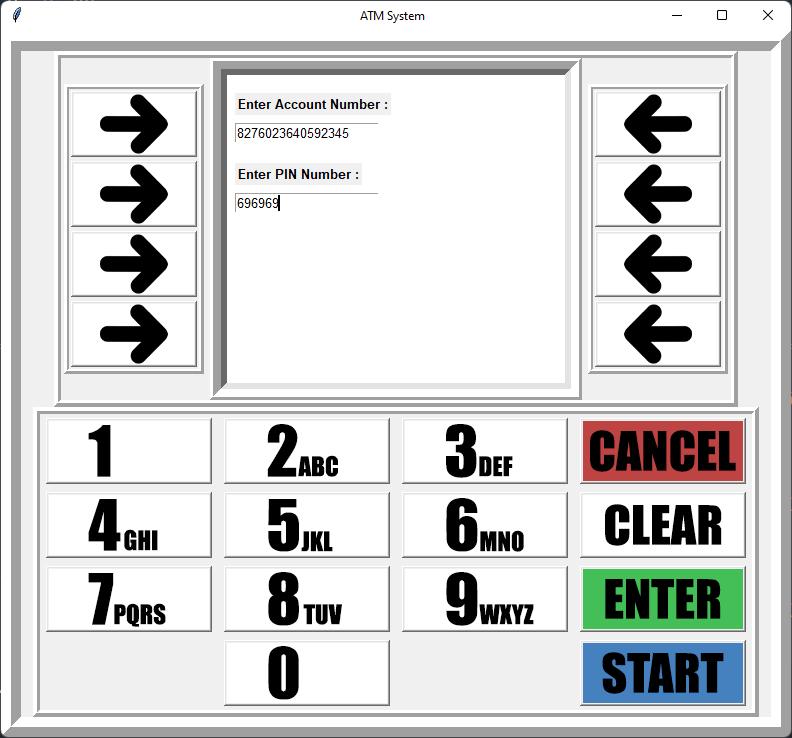
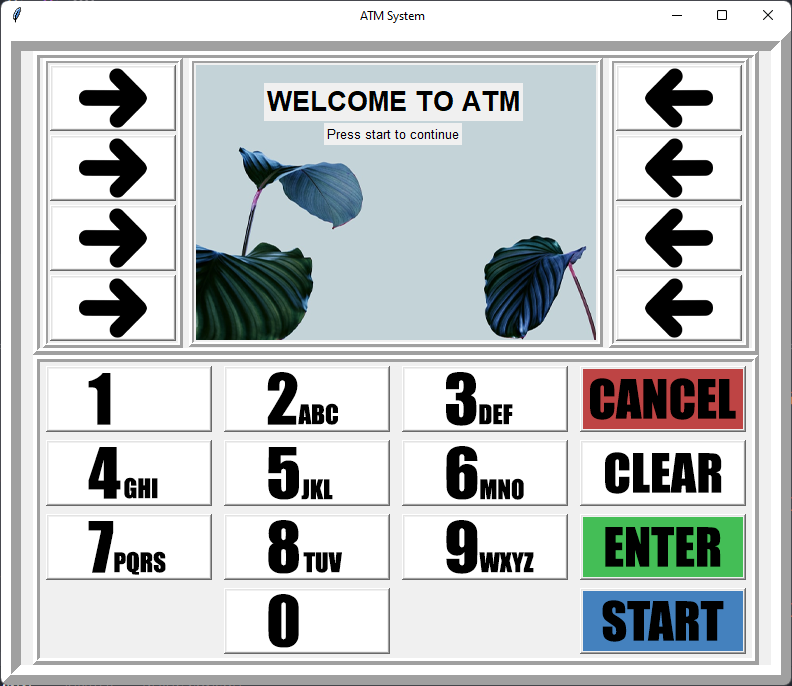
Using labels instead of txtRecipt
Removed txtRecipt
Added Labels instead (like login, register)
Added a function to destroy old widgets when changing to new "screen" which is a variable manually changed when switching screens

diff --git a/GUI.py b/GUI.py
@@ -9,7 +9,7 @@ class atm:
         self.root = root
         blank_space = " "
         self.root.title(110 * blank_space + "ATM System")
-        self.root.geometry('790x706+580+140')
+        self.root.geometry('790x654+580+140')
         self.root.configure(background ='yellow')
 
 #=================================Frame=========================================#
@@ -36,30 +36,48 @@ class atm:
 
 #============================Functions==========================================#
 
+        def DestroyOldWidgets():
+            if(self.screen == "login or register"):
+                self.WelcomeMSG_Main.destroy()
+                self.WelcomeMSG_Sub.destroy()
+            elif(self.screen == "login"):
+                self.login_label.destroy()
+                self.register_label.destroy()
+                self.dummytext1.destroy()
+                self.dummytext2.destroy()
+
         def start():
-            self.txtRecipt.insert(END, '\n\nLogin To Registered account :-' + "\n\n\n\n")
-            self.txtRecipt.insert(END, 'Register A New Account:- ' + "\n\n\n\n")
+            self.screen = "login or register"
+            DestroyOldWidgets()
+
+            self.login_label = Label(TopFrame2Mid, text="Login", font=('arial', 20, 'bold'))
+            self.login_label.place(x=15, y=15)
+
+            self.register_label = Label(TopFrame2Mid, text="Register", font=('arial', 20, 'bold'))
+            self.register_label.place(x=15, y=85)
+
+            self.dummytext1 = Label(TopFrame2Mid, text="Dummy Text 1", font=('arial', 20, 'bold'))
+            self.dummytext1.place(x=15, y=155)
+
+            self.dummytext2 = Label(TopFrame2Mid, text="Dummy Text 2", font=('arial', 20, 'bold'))
+            self.dummytext2.place(x=15, y=225)
 
         def btnltra():
-            cls()
+            # cls()
             submit1()
 
         def btnrana():
-            cls()
-            self.txtRecipt.insert(END, '\nEnter Your Name :')
-            self.txtRecipt.insert(END, '\nEnter Your Account Number:')
-            self.txtRecipt.insert(END, '\nSet Your PIN Number:')
-            self.txtRecipt.insert(END, '\nEnter Your Phone Number:')
-            self.txtRecipt.insert(END, '\nEnter Your Frist Deposit Amount :')
+            # cls()
+            pass
 
         def CurrentEntry():
             widgetSelected = str(root.focus_get()).split('.')[-1][1:]
             # print(widgetSelected)
 
             if(widgetSelected == "entry"):
-                return AccNo_entry
+                return self.AccNo_entry
             if (widgetSelected == "entry2"):
-                return PIN_entry
+                return self.PIN_entry
 
 #============================Numbers============================================#
 
@@ -77,38 +95,38 @@ class atm:
                 self.root.destroy()
                 return
 
-        # Only for txtRecipt
-        def cls():
-            self.txtRecipt.delete("1.0", END)
-
         def submit1():
-            global AccNo_entry
-            global PIN_entry
+            self.screen = "login"
+            DestroyOldWidgets()
 
-            AccNo_var = IntVar()
-            PIN_var = IntVar()
+            self.AccNo_label = Label(TopFrame2Mid, text='Enter Account Number :', font=('arial', 10, 'bold'))
+            self.AccNo_entry = Entry(TopFrame2Mid, font=('arial', 10, 'normal'))
+            self.PIN_label = Label(TopFrame2Mid, text='Enter PIN Number :', font=('arial', 10, 'bold'))
+            self.PIN_entry = Entry(TopFrame2Mid, font=('arial', 10, 'normal'))
 
-            AccNo = AccNo_var.get()
-            PIN = PIN_var.get()
+            self.AccNo_label.place(x=15, y=15)
+            self.AccNo_entry.place(x=15, y=40)
 
-            AccNo_label = Label(TopFrame2Mid, text='Enter Account Number :', font=('arial', 10, 'bold'))
-            AccNo_entry = Entry(TopFrame2Mid, textvariable=AccNo_var, font=('arial', 10, 'normal'))
-            PIN_label = Label(TopFrame2Mid, text='Enter PIN Number :', font=('arial', 10, 'bold'))
-            PIN_entry = Entry(TopFrame2Mid, textvariable=PIN_var, font=('arial', 10, 'normal'))
+            self.PIN_label.place(x=15, y=85)
+            self.PIN_entry.place(x=15, y=110)
 
-            AccNo_label.place(x=20, y=30)
-            AccNo_entry.place(x=20, y=60)
+#===============================================================================#
 
-            PIN_label.place(x=20, y=100)
-            PIN_entry.place(x=20, y=130)
-
-
+        # "welcome", "login or register", "login", "user"
+        self.screen = "Welcome"
 
 #=======================CenterScreen(Widgets)===================================#
 
-        # Main Text Widget
-        self.txtRecipt = Text(TopFrame2Mid, height = 17, width = 42, bd=12, font=('arial',11,'bold'))
-        self.txtRecipt.grid(row=0,column=0)
+        # 400 x 275
+        self.img_atm_background = PhotoImage(file="resources/images/background.png")
+        self.atm_background = Label(TopFrame2Mid, image=self.img_atm_background)
+        self.atm_background.grid(row=0, column=0)
+
+        self.WelcomeMSG_Main = Label(TopFrame2Mid, text="WELCOME TO ATM", font=('arial', 20, 'bold'))
+        self.WelcomeMSG_Main.place(x=70, y=20)
+
+        self.WelcomeMSG_Sub = Label(TopFrame2Mid, text="Press start to continue", font=('arial', 10, 'normal'))
+        self.WelcomeMSG_Sub.place(x=130, y=60)
 
 #=============================LeftArrow(Widgets)================================#
 

diff --git a/README.md b/README.md
@@ -4,3 +4,6 @@ Unfinished Project
 
 ## Screenshots
 ![atm window](resources/screenshots/app.png?raw=true)
+
+### Bilbography
+- [background Image](https://unsplash.com/photos/_6lUTo2UfMY)
